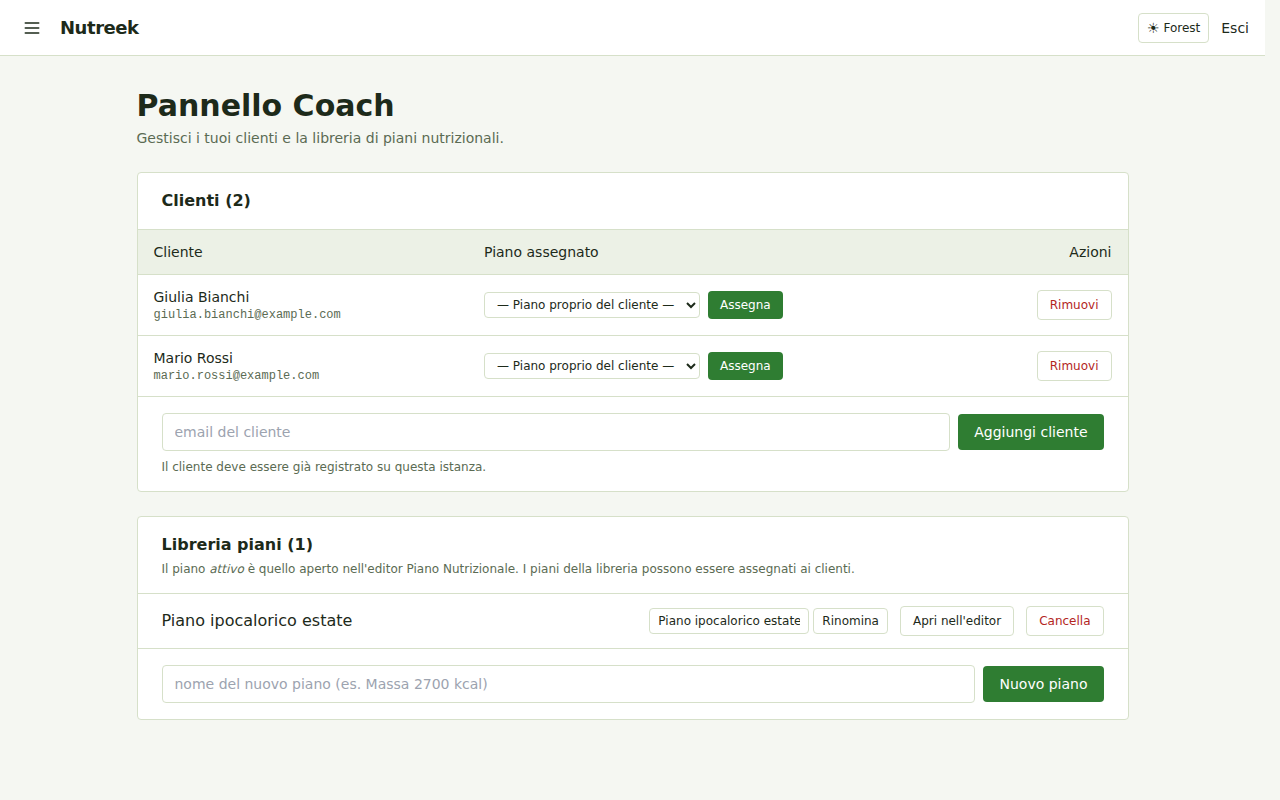
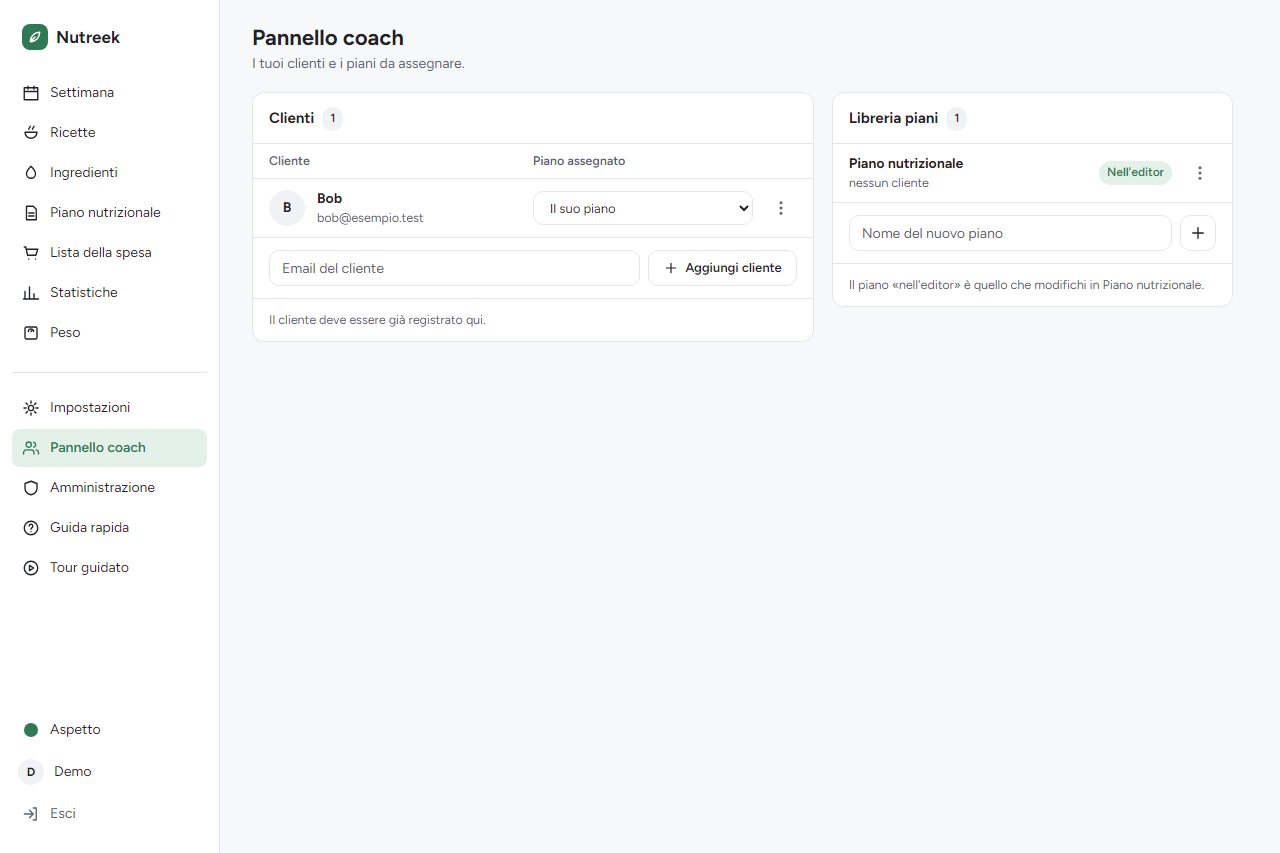
Update Nutreek page for 2.0.0 with new screenshots
- Eleven new screenshots with demo data: the week in light and dark,
  the barcode scanner and a scanned product, recipes, nutrition plan,
  shopping list, statistics, three phone screens, coach and admin
- Features: barcode scanner, installable phone app, light/dark themes,
  shopping list by aisle
- Under the hood: Go 1.27+, hand-written SQL (no sqlc), PWA

Part of easly1989/nutreek#124

diff --git a/nutreek.html b/nutreek.html
@@ -6,7 +6,7 @@
     <title>Nutreek — Self-hosted weekly nutrition planner · Carlo Ruggiero</title>
     <meta
       name="description"
-      content="Nutreek is a self-hosted weekly nutrition planner: meal plans, macros per meal, day and week, offline OpenFoodFacts search, adaptive TDEE, weight and hydration tracking, and a coach mode."
+      content="Nutreek is a self-hosted weekly nutrition planner: meal plans, macros per meal, day and week, offline OpenFoodFacts search, a barcode scanner, adaptive TDEE, weight and hydration tracking, and a coach mode. Installable on your phone."
     />
     <meta name="theme-color" content="#bfc3bb" />
     <link rel="icon" type="image/svg+xml" href="nutreek.svg" />
@@ -82,20 +82,23 @@
             protein, carbohydrates and fat — <strong>per meal, per day and per week</strong>, with
             adherence bars against your targets. Ingredient data comes from a local OpenFoodFacts
             index (full-text search in under 50&nbsp;ms, offline), so lookups stay fast and private.
+            On your phone, point the camera at a barcode and the product opens ready to add.
           </p>
           <p class="quiet">
             It runs either natively as a single Go binary, with no external dependencies, or as one
             Docker container — SQLite is embedded, so there is no separate database service to
-            operate.
+            operate. The interface is in Italian, in light and dark, and installs on a phone like
+            an app.
           </p>
           <figure>
             <img
-              src="assets/nutreek-dashboard.png"
-              alt="Nutreek weekly dashboard with meals, per-day and per-week macros, adherence bars and inline hydration"
+              src="assets/nutreek-week.png"
+              alt="Nutreek week view: day tabs with calories, the day's meals with macros, a calorie ring, water and a workout"
               loading="lazy"
             />
             <figcaption>
-              The weekly dashboard: meals, macros per day and week, and hydration at a glance.
+              One day at a time: the meals with their macros, and beside them the calorie ring,
+              water and workouts.
             </figcaption>
           </figure>
         </section>
@@ -106,15 +109,29 @@
             <div>
               <dt>Weekly plans</dt>
               <dd>
-                A weekly calendar with macros per meal, day and week, cheat meals, and one-click
-                copy from the previous week.
+                One day at a time, with a calorie ring and macros per meal, day and week, water and
+                workouts, cheat meals, and one-click copy from the previous week.
               </dd>
             </div>
             <div>
               <dt>Ingredients</dt>
               <dd>
-                Local full-text search over OpenFoodFacts (offline), barcode and URL import, and a
+                Local full-text search over OpenFoodFacts (offline) with product photos, and a
                 reconciliation job that keeps local entries in sync.
+              </dd>
+            </div>
+            <div>
+              <dt>Barcode scanner</dt>
+              <dd>
+                Scan a pack from any food picker: the product is looked up in your own ingredients
+                first, then in the local OpenFoodFacts copy, and opens ready to add.
+              </dd>
+            </div>
+            <div>
+              <dt>On your phone</dt>
+              <dd>
+                Installs as an app, with a bottom bar for the everyday sections. Light, dark or
+                follow the system, in four colours.
               </dd>
             </div>
             <div>
@@ -155,8 +172,8 @@
             <div>
               <dt>Shopping list and REST API</dt>
               <dd>
-                Generate a shopping list from the selected week, and drive everything from a
-                bearer-token REST API (v1).
+                A shopping list for the week grouped by aisle, with a cart and a two-column print,
+                and a bearer-token REST API (v1) to drive everything.
               </dd>
             </div>
           </dl>
@@ -167,24 +184,83 @@
           <div class="reel">
             <figure>
               <img
-                src="assets/nutreek-stats.png"
-                alt="Nutreek statistics screen with weekly summary and adaptive TDEE suggestion"
+                src="assets/nutreek-scanner.png"
+                alt="The barcode scanner open over the food picker, the camera framing a barcode"
                 loading="lazy"
               />
-              <figcaption>
-                Statistics and adaptive TDEE: a weekly summary and a suggested target update from
-                your trend.
-              </figcaption>
+              <figcaption>The barcode scanner, opened from the food picker.</figcaption>
+            </figure>
+            <figure>
+              <img
+                src="assets/nutreek-barcode.png"
+                alt="The scanned product opened in the picker, with protein, carbs, fat and the quantity to add"
+                loading="lazy"
+              />
+              <figcaption>The scanned product, ready to add: pick the grams and see the calories before saving.</figcaption>
+            </figure>
+            <figure>
+              <img
+                src="assets/nutreek-week-dark.png"
+                alt="The week view in dark mode"
+                loading="lazy"
+              />
+              <figcaption>The same week in dark mode.</figcaption>
+            </figure>
+            <figure>
+              <img
+                src="assets/nutreek-phone.png"
+                alt="Three phone screens: the week, the barcode scanner and the shopping list"
+                loading="lazy"
+              />
+              <figcaption>On the phone: the week, the scanner and the shopping list, with the bottom bar.</figcaption>
+            </figure>
+            <figure>
+              <img
+                src="assets/nutreek-recipes.png"
+                alt="Recipe list with calories and macros per serving, and filters"
+                loading="lazy"
+              />
+              <figcaption>Recipes with calories and macros per serving, searchable and filtered.</figcaption>
+            </figure>
+            <figure>
+              <img
+                src="assets/nutreek-plan.png"
+                alt="Nutrition plan with the variants of breakfast and lunch"
+                loading="lazy"
+              />
+              <figcaption>The nutrition plan: variants for each meal, which feed the picker and the week generator.</figcaption>
+            </figure>
+            <figure>
+              <img
+                src="assets/nutreek-shopping.png"
+                alt="Shopping list grouped by aisle, with items added by hand"
+                loading="lazy"
+              />
+              <figcaption>The shopping list, grouped by aisle.</figcaption>
+            </figure>
+            <figure>
+              <img
+                src="assets/nutreek-stats.png"
+                alt="Statistics in dark mode: summary cards, estimated energy needs, calories and macros, weight"
+                loading="lazy"
+              />
+              <figcaption>Statistics and adaptive TDEE: your real energy needs, estimated from weight and intake.</figcaption>
             </figure>
             <figure>
               <img
                 src="assets/nutreek-coach.png"
-                alt="Nutreek coach panel: client management, plan assignment and a reusable plan library"
+                alt="Coach panel with a client and the plan library"
                 loading="lazy"
               />
-              <figcaption>
-                Coach panel: manage clients, assign nutrition plans and reuse a plan library.
-              </figcaption>
+              <figcaption>Coach panel: manage clients, assign nutrition plans and reuse a plan library.</figcaption>
+            </figure>
+            <figure>
+              <img
+                src="assets/nutreek-admin.png"
+                alt="Administration: users, premium, features and the OpenFoodFacts sync"
+                loading="lazy"
+              />
+              <figcaption>Administration for the owner: users, feature switches and the OpenFoodFacts sync.</figcaption>
             </figure>
           </div>
         </section>
@@ -194,7 +270,7 @@
           <table class="spec">
             <tr>
               <th scope="row">Backend</th>
-              <td>Go 1.25+ (chi, scs, sqlc, goose, bcrypt, nosurf)</td>
+              <td>Go 1.27+ (chi, scs, goose, bcrypt, nosurf), hand-written SQL</td>
             </tr>
             <tr>
               <th scope="row">Database</th>
@@ -202,7 +278,7 @@
             </tr>
             <tr>
               <th scope="row">Frontend</th>
-              <td>Server-side rendering with html/template + HTMX + Tailwind CSS</td>
+              <td>Server-side rendering with html/template + HTMX + Tailwind CSS; installable as a PWA</td>
             </tr>
             <tr>
               <th scope="row">Deploy</th>
